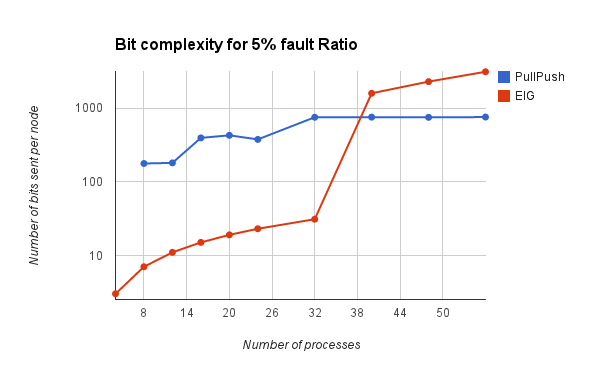
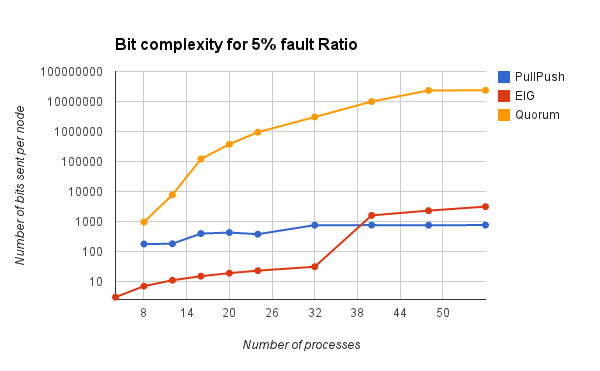
Graphs modified, algorithm added

diff --git a/2algo.tex b/2algo.tex
@@ -1,0 +1,65 @@
+
+  \begin{minipage}[h]{0.90\columnwidth}%
+            \begin{algorithm}[H]%
+    %\footnotesize%
+         \caption{Stage 2: Agree on smallest committee}%
+               \label{alg:stage2}%
+        \KwIn{View of all committees formed by all the processes}
+        \KwOut{Smallest Committee}
+
+
+        \ForEach{ $C_i$ in $C$}{
+            thread\_create$(t_k, \mathtt{decide}(C_i))$\;
+        }
+        
+        decide$(C_i)$ \;
+            \Indp $S \gets \mathtt{subsets}(\frac{3}{4}a\mathtt{log n}, P)$\;
+
+            \ForEach{ $S_j$ in $S$}{
+
+                \ForEach{$P_k$ in $S_j$}{
+                    $\mathtt{\bar{view}}_k(C_i) \gets \mathtt{\bar{obtain\_view}}(P_k, C_i$) \;
+                    $\mathtt{\bar{view}}_{S_j}(C_i) \gets \mathtt{\bar{view}}_{S_j}(C_i) \cap \mathtt{view}_k(C_i)$\;
+                }
+                \eIf{$\mid \mathtt{\bar{view}}_{S_j}(C_i) \mid > \mathtt{alog n}$}{
+                    $\mathtt{disq}_{P_i, S_j}(C_i) = 1$\;
+                }{
+                    $\mathtt{disq}_{P_i, S_j}(C_i) = 0$\;
+                }
+                \If{$\mathtt{disq}_{P_i, S_j}(C_i) == 0$}{
+                    \ForEach{$P_k$ in $S_j$}{
+                        $\mathtt{view}_k(C_i) \gets \mathtt{obtain\_view}(P_k, C_i$) \;
+                        $\mathtt{composition}_{S_j}(C_i) \gets \mathtt{composition}_{S_j}(C_i) \cap \mathtt{view}_k(C_i)$\;
+                    }
+                }
+                broadcast$(S_j, C_i, \mathtt{disq}_{P_i, S_j}(C_i), $ \\
+                $\hfill \mathtt{composition}_{S_j}(C_i))$\;
+            }%
+
+                $(S_j, C_i, \mathtt{disq}, \mathtt{comp}) \gets \mathtt{recv}(S_j')$\;
+                \tcc{$S_j'$ is the ID from who the tuple is received}
+
+                \ForAll{$(S_j, C_i, 1, *)$}{
+                    \If{$\mid S_j' \mid \geq \frac{1}{2}\mathtt{alogn}$ and $S_j' \subseteq S_j \subseteq \mathtt{view}_i(C_i)$}{
+                        $\mathtt{disq}_{P_i}(C_i) = 1$\;
+                    }
+                }
+                \ForEach{$S_j$ in $\mathtt{view}_i(C_i)$}{
+                    \ForAll{$S_j', (S_j, C_i, 0, D) $}{
+                        \If{$ S_j' \subseteq S_j$ and $\mid S_j' \mid \geq \frac{1}{2}\mathtt{alogn}$}{
+                            $\mathtt{composition}_{S_j}(C_i) \gets D$\;
+                        }
+                        {
+                            $\mathtt{composition}_{S_j}(C_i) \gets \bot$\;
+                        }
+                    }
+                    \ForAll{$S_j$}{
+                            $\mathtt{composition}(C_i) \gets$ largest$(\mathtt{composition}_{S_j}(C_i))$\;
+                    }
+                }
+            \Indm \ForAll{$C_i$}{
+                 $C_{small} \gets$ Choose\_smallest($\mathtt{composition}(C_i)$)\;
+            }
+    \end{algorithm}%
+  \end{minipage}%
+%}

diff --git a/eval.tex b/eval.tex
@@ -61,12 +61,12 @@ For the Pull-Push algorithm, as the network size increases the bit complexity di
  \label{fig:pull_push}
 \end{figure}
 
-%\begin{figure}[h]
-% \centering
-%\includegraphics[scale=0.55]{quorum}
-%\caption{Consensus results for Quorum algorithm}
-% \label{fig:quorum}
-%\end{figure}
+\begin{figure}[h]
+ \centering
+\includegraphics[scale=0.4]{quorum}
+\caption{Consensus results for Quorum algorithm}
+ \label{fig:quorum}
+\end{figure}
 
 \subsubsection{Comparison}
 As can be seen from Fig. \ref{fig:comp}, for large networks $n > 64$, on varying the ratio of faults to the number of processes, i.e., $f/n$ lies in the range $[0, 1/3)$ for algorithms EIG and Pull-Push and in the range $[0, 1/4)$ for algorithm Quorum, the algorithm Pull-Push performs much better, than the other algorithms. For this algorithm, the change in the ratio does not affect the complexity much, whereas for algorithm EIG we can see a slight increase. This is due to byzantine nodes trying to send $O(n^2)$ bits to every node in every round and good nodes having to send the complete byzantine list in every round. We modify this protocol a little and require that instead of sending the complete byzantine list every time, only the changes to this list be sent in every round. This would overall reduce communication bits as good nodes would send a bit for every node only if it was newly added to the byzantine list at the end of the previous round. This modified version of the algorithm performs much better and even though the communication bits are high for small fault ratios it reduces the communication complexity by $O(n)$. 
@@ -79,9 +79,9 @@ As can be seen from Fig. \ref{fig:comp}, for large networks $n > 64$, on varying
 
 \begin{figure}[h]
  \centering
-\includegraphics[scale=0.4]{Fault33}
+\includegraphics[scale=0.4]{Fault25}
 \caption{ Comparison for variable number of faults in each algorithm}
- \label{fig:fault33}
+ \label{fig:fault25}
 \end{figure}
 
 \begin{figure}[h]

diff --git a/desc_algo2.tex b/desc_algo2.tex
@@ -1,0 +1,35 @@
+
+
+        \begin{minipage}[H]{0.80\columnwidth}
+        \begin{Ualgorithm}
+         \caption{Answering Pull Request}%
+               \label{alg:ans_pull}%
+      %\SetAlgoLined
+        Upon event: $\mathtt{recv}(ROUTE, x, s, r_{x, s}) \Leftarrow z$\;
+        \Indp 
+            \If{$\mathtt{count}_s > \mathtt{log}^2n$}{
+                Wait for has\_decided\;
+            }
+            $J_{x,r_{x,s}} \gets$ getPollList($r_{x, s}, x$)\;
+            $H_{P_i,s} \gets$ getPullQuorum($s$, $P_i$)\;
+            \If{$g_{string} == s$ and $P_i$ in $J_{x, r_{x,s}}$ and $z$ in $H(P_i, s)$}{
+                $\mathtt{fw\_count}_{s,x}++$\;
+                \If{$\mathtt{fw\_count}_{s,x} > \frac{1}{2}|H_{x,s}|$ and $(x, s)$ in $\mathtt{Polled}$}{
+                    $\mathtt{count}_s ++$\;
+                    send$(ANSWER, s, r_{x, s}) \Rightarrow x$\;
+                }
+            }
+        \Indm Upon event: $\mathtt{recv}(POLL, s, r_{x,s}) \Leftarrow x$\;
+        \Indp 
+            $J_{x,r_{x,s}} \gets$ getPollList($r_{x, s}, x$)\;
+            \If{$P_i$ in $J_{x, r_{x,s}}$}{
+                $\mathtt{Polled} \gets \mathtt{Polled} \cup (x,s)$\;
+                \If{$\mathtt{fw\_count}_{s,x} > \frac{1}{2}|H_{x,s}|$}{
+                    $\mathtt{count}_s ++$\;
+                    send$(ANSWER, s, r_{x, s}) \Rightarrow x$\;
+                    $\mathtt{fw\_count}_{s,x} \gets \infty$\;
+                }
+            }
+
+    \end{Ualgorithm}%
+  \end{minipage}%

diff --git a/route.tex b/route.tex
@@ -1,0 +1,33 @@
+
+
+        \begin{minipage}[H]{0.80\columnwidth}
+        \begin{Ualgorithm}
+         \caption{Routing Pull Request}%
+    \footnotesize
+               \label{alg:rout_pull}%
+      %\SetAlgoLined
+        Upon event: $\mathtt{recv}(PULL, s, r_{x, s}, H_s) \Leftarrow x$\;
+        \Indp 
+            \If{$g_{string} == s$ and $P_i$ in $H_s$}{
+                $J_{x,r_{x,s}} \gets$ getPollList($r_{x, s}, x$)\;
+                \ForEach{$w$ in $J_{x,r_{x,s}}$}{
+                    $H_{w,s} \gets$ getPullQuorum($s$, $w$)\;
+                    send$(ROUTE, x, s, r_{x, s}, w) \Rightarrow H_{w,s}$\;
+                }
+            }
+        \Indm Upon event: $\mathtt{recv}(ROUTE, x, s, r_{x,s}, w) \Leftarrow P_j$\;
+        \Indp 
+            $H_{x,s} \gets$ getPullQuorum($s$, $x$)\;
+            $J_{x,r_{x,s}} \gets$ getPollList($r_{x, s}, x$)\;
+            \If{$g_{string} == s$ and $P_j$ in $H_{x,s}$ and $w$ in $J_{x,r_{x,s}}$}{
+                $\mathtt{fw\_count}_{s,x}++$\;
+                \If{$\mathtt{fw\_count}_{s,x} > \frac{1}{2}|H_{x,s}|$}{
+                    send$(FORWARD, x, s, r_{x, s}) \Rightarrow w$\;
+                    $\mathtt{fw\_count}_{s,x} \gets \infty$\;
+                }
+            }
+
+
+    \end{Ualgorithm}%
+  \end{minipage}%
+

diff --git a/1algo.tex b/1algo.tex
@@ -1,0 +1,43 @@
+
+        \begin{minipage}[h]{0.90\columnwidth}
+        %\footnotesize
+        \begin{algorithm}[H]
+         \caption{Stage 1: Form Committees}%
+               \label{alg:stage1}%
+      %\SetAlgoLined
+               \KwIn{Process $P_i$ with a random number $B_i$}
+        \KwOut{View of all committees formed by all the processes}
+
+        $B_i \gets rand([1, \dots, \frac{n}{alogn}])$\;
+
+        $gradecast(B_i)$\;
+
+        
+        \ForEach{ $P_j$ in $P$}{
+
+        $(v_i^j, c_i^j) \gets recv(P_j)$\;
+
+        }
+
+        \ForEach{ $C_k$ in $C$}{
+
+            \ForEach{$P_j$ in $P$}{
+                \If{$v_i^j == C_k$ and $c_i^j == 2$}{
+
+                    $\mathtt{view}_i(C_k) \gets \mathtt{view}_i(C_k) \cup P_j$\;
+                }
+            }
+        }
+        \ForEach{ $C_k$ in $C$}{
+
+            \ForEach{$P_j$ in $P$} {
+
+                \uIf{$v_i^j == C_k$ and $c_i^j > 2$}{
+
+                    $\mathtt{\bar{view}}_i(C_k) \gets \mathtt{\bar{view}}_i(C_k) \cup P_j$\;
+                }
+            }
+        }
+
+    \end{algorithm}%
+  \end{minipage}%

diff --git a/pull.tex b/pull.tex
@@ -1,0 +1,32 @@
+
+        \begin{minipage}[H]{0.80\columnwidth}
+        \begin{Ualgorithm}
+         \caption{Sending Pull Request}%
+               \label{alg:send_pull}%
+      %\SetAlgoLined
+               \KwIn{$L_{P_i}$, list of candidates for node $P_i$}
+        \KwOut{String agreed upon}
+        
+        
+        \ForEach{ $s$ in $L_{P_i}$}{
+            $r_{P_i, s} \gets$ generateRand()\;
+            $J_{r,s} \gets$ getPollList($r_{P_i, s}, P_i$)\;
+            $H_s \gets$ getPullQuorum($s$, $P_i$)\;
+            send$(POLL, s, r_{P_i, s}, J_{r,s})$\;
+            send$(PULL, s, r_{P_i, s}, H_s)$\;
+
+            Upon event: recv$(ANSWER,s,r)  \Leftarrow w$\;
+            \Indp 
+                \If{$w$ in $J_{r,s}$}{
+                    $\mathtt{count}_s ++$\;
+                    \If{$\mathtt{count}_s > \frac{1}{2}|J_{r,s}|$}{
+                        has\_decided $\gets$ true\;
+                        $\mathtt{final}_s \gets s$\;
+                        \Return{$s$}\;
+                    }
+                }
+        }
+
+
+    \end{Ualgorithm}%
+  \end{minipage}%

diff --git a/desc_algo1.tex b/desc_algo1.tex
@@ -1,0 +1,38 @@
+
+%\textbf{Stage 1: Form $\frac{n}{alogn}$ Committees}\\
+
+
+%\textbf{Stage 2: Agree on smallest committee}\\
+
+%    \fbox{
+%\begin{multicols}{2}
+
+%\newcommand{\part}[1]{%
+
+%\textbf{Stage 3: Final Decision}\\
+%    \fbox{
+        \begin{minipage}[h]{0.90\columnwidth}
+            \begin{algorithm}[H]
+    %\footnotesize
+         \caption{Stage 3: Final Decision}%
+               \label{alg:stage3}%
+      %\SetAlgoLined
+               \KwIn{Smallest committee chosen by all processes $C_{small}$}
+        \KwOut{Final decision value of all processes}
+
+    \tcc{$L_i$ is the ID of leader of committee $C_{small}$}
+    $L_i \gets$ leader\_election$(C_{small})$\;
+    \eIf{$L_i == P_i$}{
+        val = flip\_coin()\;
+        broadcast(val)\;
+    }{
+        val = recv()\;
+    }
+    \Return{val}
+
+
+
+    \end{algorithm}%
+  \end{minipage}%
+%  }
+

diff --git a/push.tex b/push.tex
@@ -1,0 +1,30 @@
+
+
+        \begin{minipage}[H]{0.80\columnwidth}
+        \begin{Ualgorithm}
+         \caption{Push phase}%
+               \label{alg:push}%
+      %\SetAlgoLined
+               \KwIn{Process $P_i$ with a random string $g_{string}$, a list of all strings $C_{string}$}
+        \KwOut{Each node creates a candidate strings list $L_{P_i}$}
+        
+        $g_{string} \gets$ createRandString()\;
+
+        broadcast$(g_{string})$\;
+
+        $L_{P_i} \gets g_{string}$\;
+
+        
+        \ForEach{ $str$ in $C_{string}$}{
+
+            $I_s \gets$ getPushQuorum($\mathtt{str}, P_i$)\;
+            $\mathtt{num} \gets recv(I_s)$\;
+            \If{$\mathtt{num} > len(I_s)$}{
+                $L_{P_i} \gets L_{P_i} \cup s$\;
+            }
+
+        }
+
+
+    \end{Ualgorithm}%
+  \end{minipage}%
